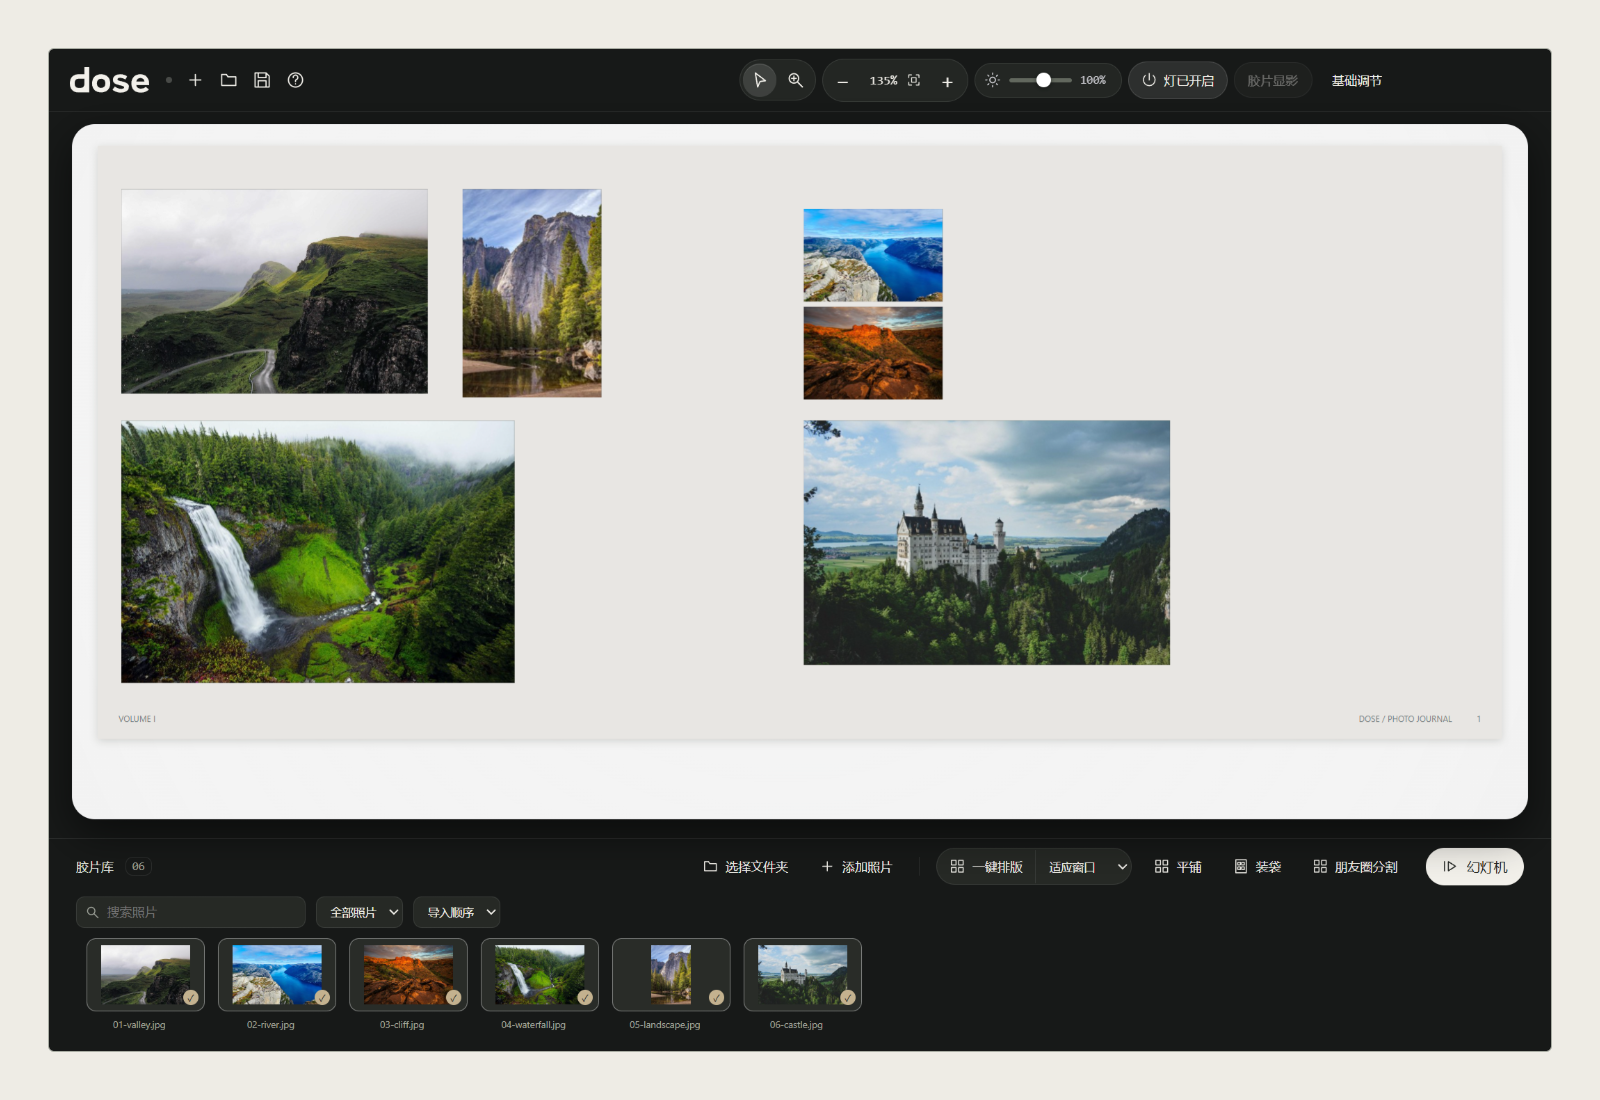
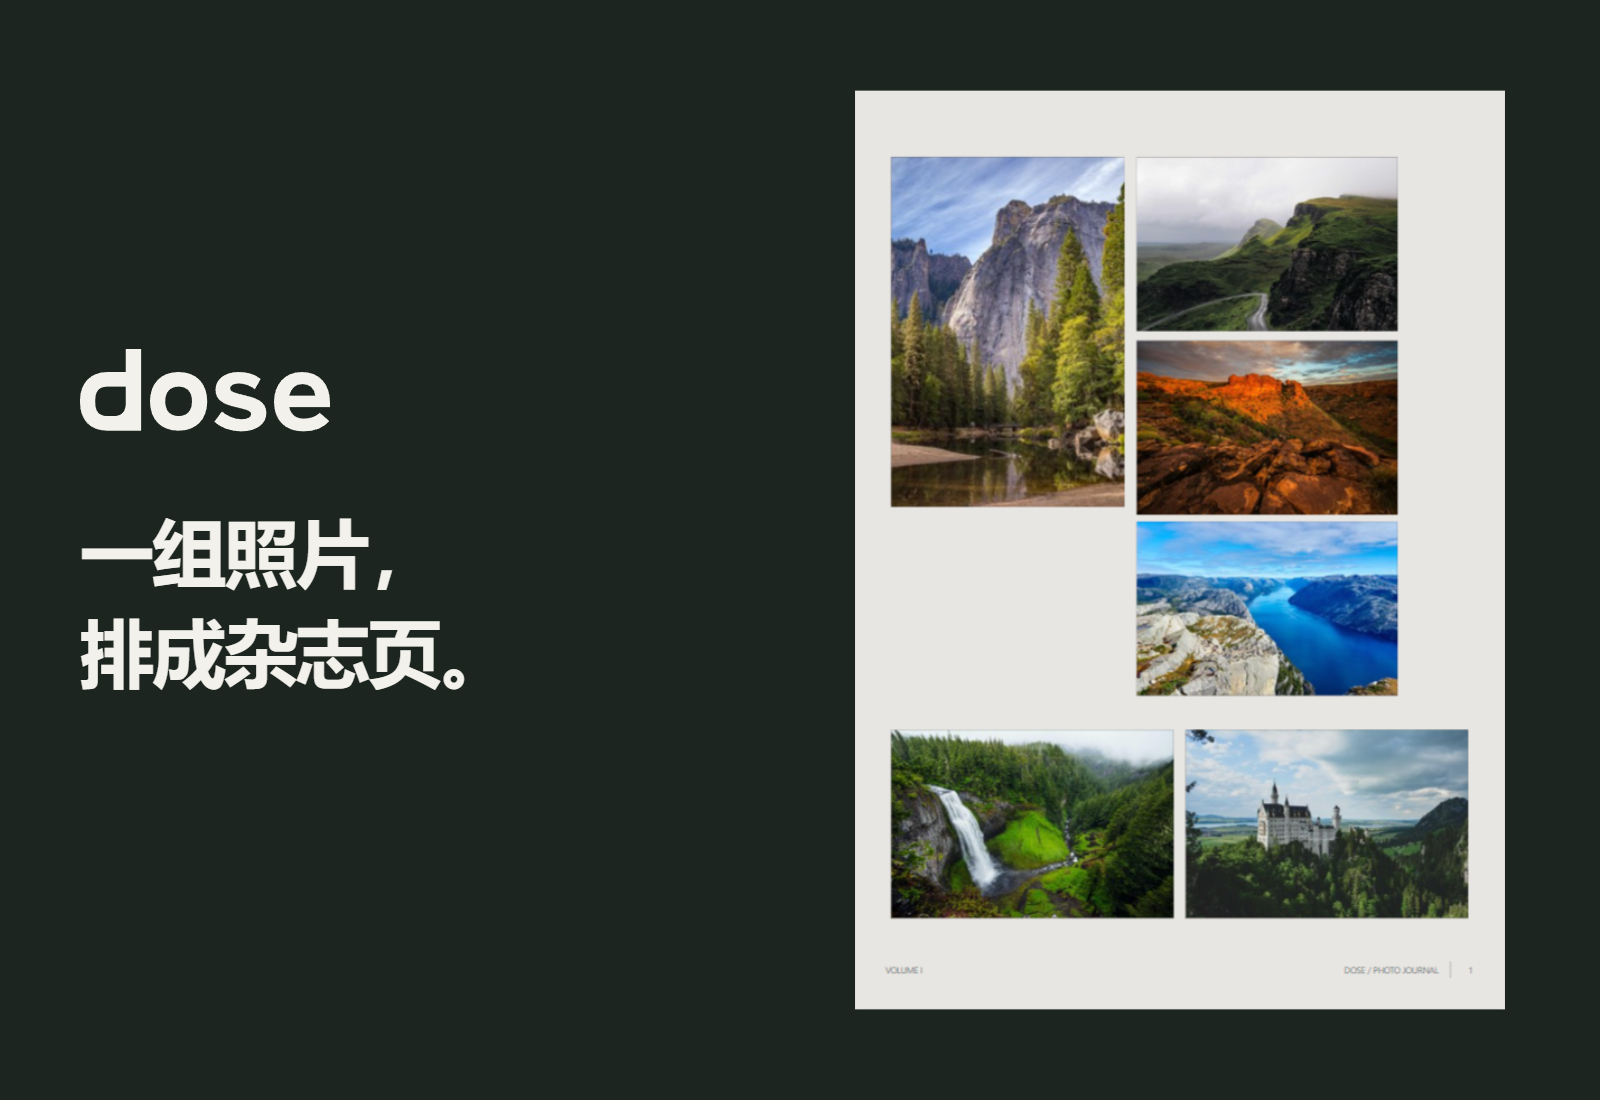
Feature automatic magazine layouts in the product introduction

diff --git a/README.md b/README.md
@@ -7,7 +7,7 @@
 
 <h1 align="center">那些日子，慢慢显影。</h1>
 
-<p align="center">Windows 照片工作台，支持胶片调色与排版分享。</p>
+<p align="center">把照片排成杂志页，也能调胶片色的 Windows 照片工具。</p>
 
 <p align="center">
   <a href="https://github.com/chongchonghaoman/dose/releases/latest">下载 Windows 版</a> ·
@@ -16,15 +16,23 @@
   <a href="README.en.md">English</a>
 </p>
 
-![dose 照片工作台：把照片摊开，挑出想留下的那一组](docs/media/hero.png)
+![dose 根据照片比例生成的杂志页面](docs/media/hero.png)
 
-dose 是一个本地照片工具。你可以把一组照片摊在观片台上，挑出想调的几张，再整理成分享图。常用的 LUT 调色和 SpektraLab 显影工作区都能直接打开，编辑结果会回到同一个图库。
+dose 可以把一组照片自动排成杂志页。横片和竖片按各自比例安排大小，页面保留留白和页码。想换个版式，再点一次排版就能试。调色也在同一个应用里完成，处理好的照片可以接着放进版面。
 
 ## 功能
 
+### 杂志排版
+
+选好照片，在「一键排版」旁选择「杂志」。dose 会根据照片数量和横竖比例安排版面，保留每张照片的完整画面。大图、小图和留白的位置会随组合变化。
+
+再点一次「一键排版」可以换版式；选中某一页的照片，也可以单独重新排这一页。「九页杂志」适合一次整理更多照片，生成的页面会一起放在观片台上，方便比较整组的效果。
+
+![dose 的杂志模式：横竖照片按比例排列，保留留白与页码](docs/media/magazine.png)
+
 ### 观片台
 
-照片可以自由摆放，也可以一键排成网格或杂志页面。选中照片按 <kbd>E</kbd> 查看大图，放大检查细节，返回后继续刚才的排版。图库支持文件名搜索，照片多时可以筛选已放置或未放置的部分。
+照片可以自由摆放，也有网格和胶片袋视图。选中照片按 <kbd>E</kbd> 查看大图，放大检查细节，返回后继续刚才的排版。图库支持文件名搜索，照片多时可以筛选已放置或未放置的部分。
 
 ![dose 观片台](docs/media/light-table.png)
 
@@ -42,9 +50,9 @@ Windows 版内置了 SpektraLab 显影工作区。选中照片，点击「胶片
 
 ![dose 内置的 SpektraLab 显影工作区](docs/media/darkroom.png)
 
-### 排版与分享
+### 分享
 
-挑好的照片可以排成分享图，或切成九宫格导出。幻灯机模式适合逐张回看，键盘左右键就能换片。
+分享画布也提供杂志排版，可以切成九宫格导出。幻灯机模式适合逐张回看，键盘左右键就能换片。
 
 ## 开始使用
 

diff --git a/README.en.md b/README.en.md
@@ -1,12 +1,13 @@
 # dose
 
-dose is a local Windows app for selecting photos, trying film looks and arranging a set for sharing. Its built-in SpektraLab editor saves developed images back to the same library.
+dose is a local Windows photo app with automatic magazine layouts. It arranges portrait and landscape photos at different sizes while keeping their full aspect ratios. Try another composition with one click, or develop a photo in the built-in SpektraLab editor and return it to the same workspace.
 
 [Download for Windows](https://github.com/chongchonghaoman/dose/releases/latest) · [中文](README.md) · [Build](docs/BUILD.md)
 
 ![dose photo workspace](docs/media/hero.png)
 
-- **Light table.** Arrange photos freely or use grids, sleeves and editorial layouts. Search, filter and sort the library.
+- **Magazine layouts.** Generate pages with varied image sizes, whitespace and page numbers. Change the composition or reflow an individual page; use the nine-page mode for a larger set.
+- **Light table.** Arrange photos freely or use grids and sleeves. Search, filter and sort the library.
 - **Single-photo view.** Zoom, pan, step through the current selection and hold Space to compare the original. Return without losing the table layout.
 - **Film looks.** Browse LUT previews rendered from the current photo, save favorites and import `.cube` / HaldCLUT files.
 - **Built-in darkroom.** Enter the SpektraLab Windows editor from dose and return the result as a separate 16-bit ProPhoto RGB TIFF, retaining the original and editing recipe.
